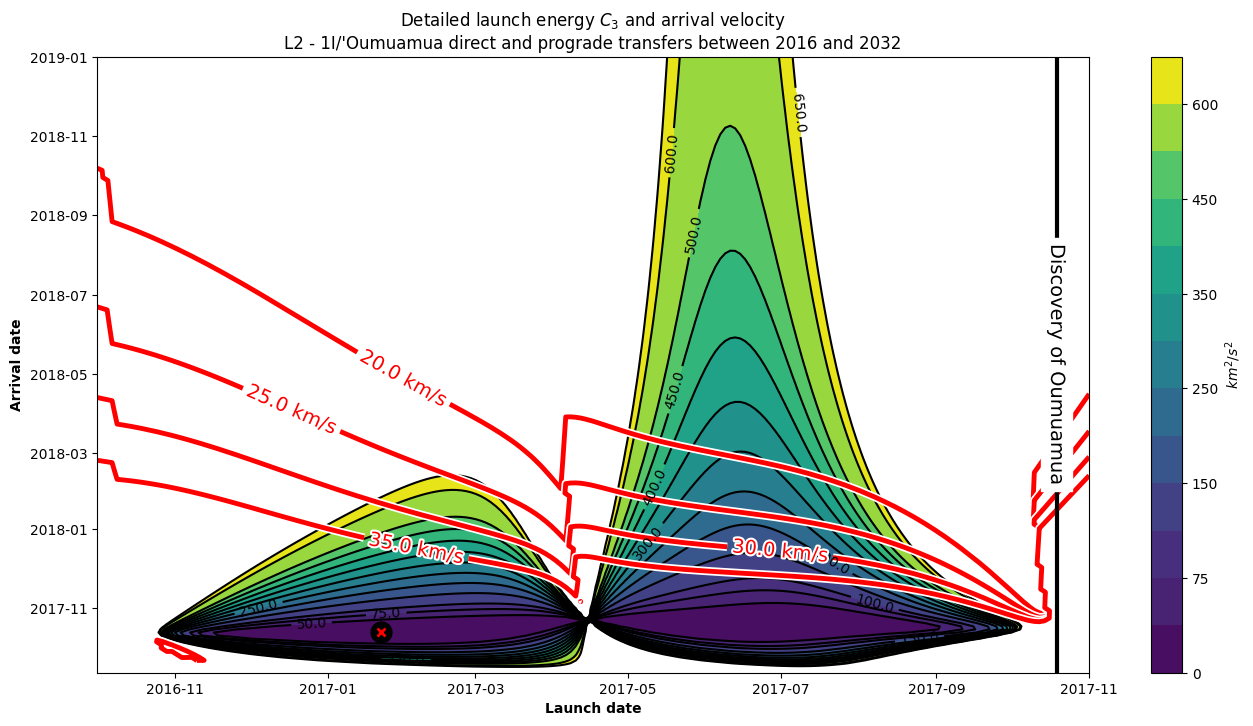
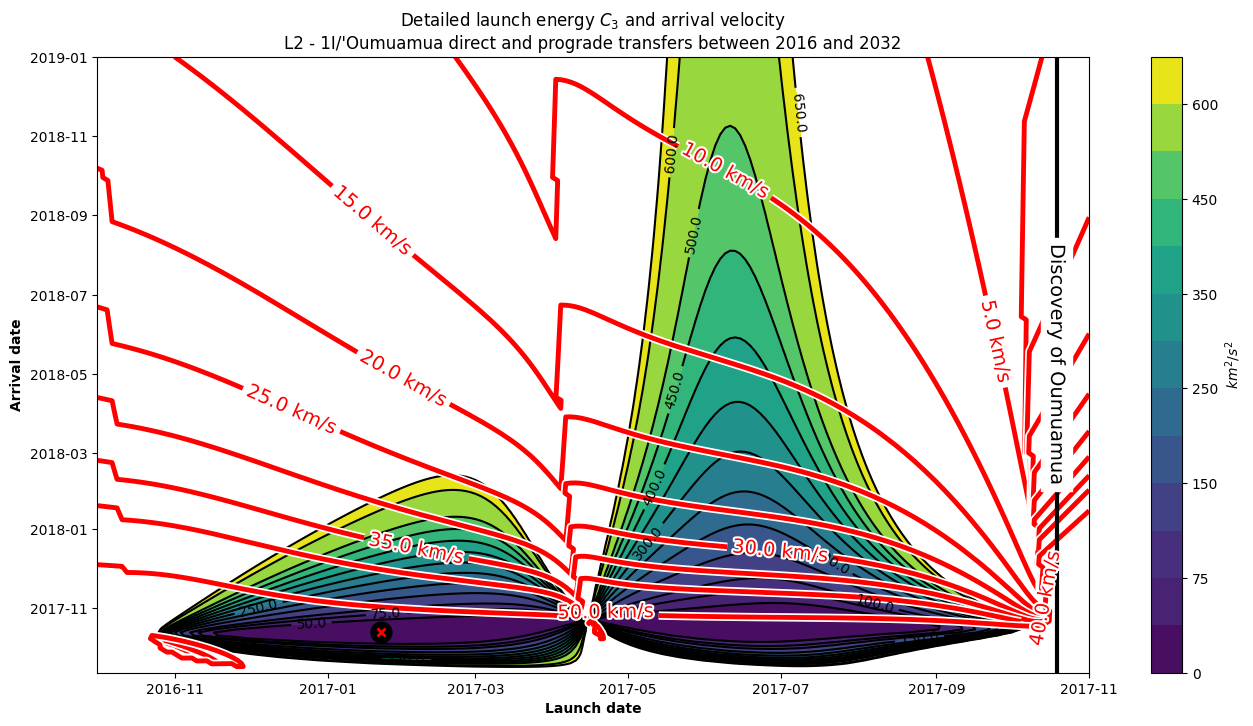
fix: levels in figures

diff --git a/bin/oumuamua_porkchop.py b/bin/oumuamua_porkchop.py
@@ -41,7 +41,7 @@ def solve_launch_energy(porkchop, inclination):
         use_years=True,
     )
     porkchop.ax.set_title(f"Launch energy $C_3$ and time of flight\nEarth - 1I/'Oumuamua direct and {inclination} transfers between 2016 and 2028")
-    plt.savefig(f"fig/static/oumuamua/direct-{inclination}-transfer-porkchop.png", bbox_inches="tight")
+    #plt.savefig(f"fig/static/oumuamua/direct-{inclination}-transfer-porkchop.png", bbox_inches="tight")
 
 def solve_arrival_velocity(porkchop, inclination):
     _, ax = plt.subplots(1, 1, figsize=(16, 8))
@@ -57,7 +57,8 @@ def solve_arrival_velocity(porkchop, inclination):
         ax=ax
     )
     porkchop.ax.set_title(f"Launch energy $C_3$ and arrival velocity\nEarth - 1I/'Oumuamua direct and {inclination} transfers between 2016 and 2028")
-    plt.savefig(f"fig/static/oumuamua/direct-{inclination}-transfer-porkchop-avl.png", bbox_inches="tight")
+    #plt.savefig(f"fig/static/oumuamua/direct-{inclination}-transfer-porkchop-avl.png", bbox_inches="tight")
+    plt.show()
 
 
 if __name__ == "__main__":

diff --git a/bin/oumuamua_porkchop_optimum.py b/bin/oumuamua_porkchop_optimum.py
@@ -70,7 +70,7 @@ def main():
                                          color='black', linewidth=3,
                                          label="Discovery of Oumuamua")
     labelLines([discovery_line], align=True, fontsize=14, backgroundcolor="white")
-    plt.savefig(f"fig/static/oumuamua/direct-detailed-porkchop-tof.png", bbox_inches="tight")
+    #plt.savefig(f"fig/static/oumuamua/direct-detailed-porkchop-tof.png", bbox_inches="tight")
 
     # Get launch energy and arrival velocity
     _, ax = plt.subplots(1, 1, figsize=(16, 8))
@@ -80,7 +80,7 @@ def main():
         ax=ax,
     )
     porkchop.plot_arrival_velocity(
-        levels=[20, 25, 30, 35] * u.km / u.s,
+        levels=[20, 25, 30, 35, 40, 50, 60] * u.km / u.s,
         ax=ax
     )
     porkchop.ax.set_title(f"Detailed launch energy $C_3$ and arrival velocity\nEarth - 1I/'Oumuamua direct and prograde transfers between 2016 and 2032")

diff --git a/bin/borisov_porkchop_optimum.py b/bin/borisov_porkchop_optimum.py
@@ -71,7 +71,7 @@ def main():
         ax=ax,
     )
     porkchop.plot_arrival_velocity(
-        levels=np.linspace(30, 40, 3) * u.km / u.s,
+        levels=[20, 25, 30, 35, 40, 50, 60] * u.km / u.s,
         ax=ax
     )
     porkchop.ax.set_title(f"Detailed launch energy $C_3$ and arrival velocity\nEarth - 2I/Borisov direct and prograde transfers between 2016 and 2032")

diff --git a/bin/oumuamua_porkchop_l2_optimum.py b/bin/oumuamua_porkchop_l2_optimum.py
@@ -80,7 +80,7 @@ def main():
         ax=ax,
     )
     porkchop.plot_arrival_velocity(
-        levels=[20, 25, 30, 35] * u.km / u.s,
+        levels=[5, 10, 15, 20, 25, 30, 35, 40, 50] * u.km / u.s,
         ax=ax
     )
     porkchop.ax.set_title(f"Detailed launch energy $C_3$ and arrival velocity\nL2 - 1I/'Oumuamua direct and prograde transfers between 2016 and 2032")
